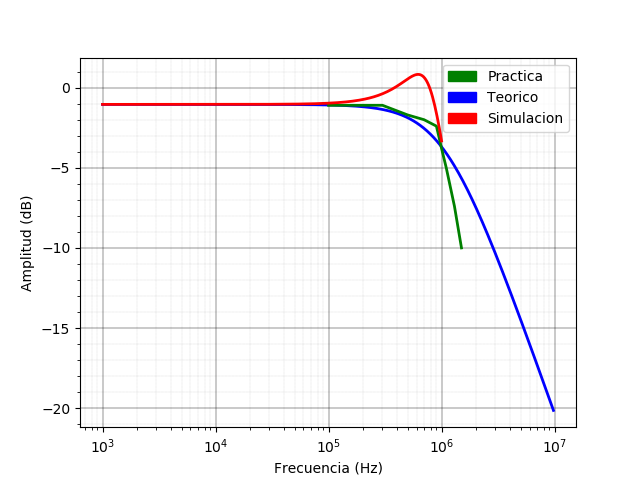
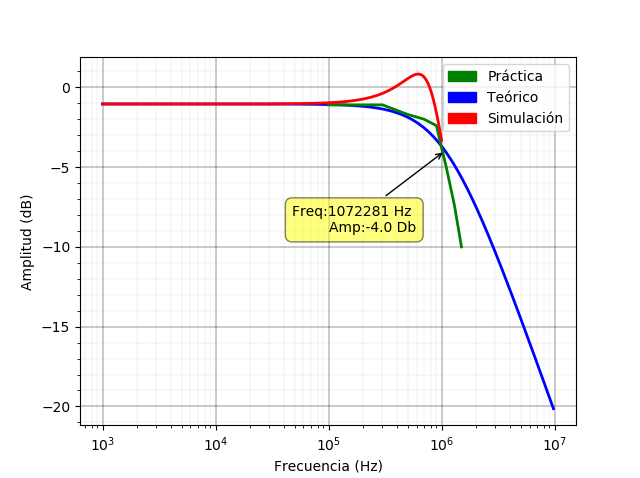
add

diff --git a/TP2/graficos/ejercicio1/bode_no_inv.py b/TP2/graficos/ejercicio1/bode_no_inv.py
@@ -5,15 +5,21 @@ from math import *
 import matplotlib.pyplot as plt
 import matplotlib.patches as mpatches
 from read_xls import *
+from mpldatacursor import datacursor
+import matplotlib
 
 a0 = 1e5
 
 fp = 12
 wp = fp * 2 * pi
-fig, ax1 = plt.subplots()
+
 k = 1e3
 
+
+
 def dibujar_bode(r1,r2,r3,r4,log_range, excel_filename, spice_filename ,output_filename):
+
+
     (s,e) = log_range
     f_all = 10.0 ** np.arange(s, e, 0.01)
     w_all = [i * (2*pi) for i in f_all]
@@ -41,7 +47,7 @@ def dibujar_bode(r1,r2,r3,r4,log_range, excel_filename, spice_filename ,output_f
 
     data_excel = read_excel_data(excel_filename)
 
-
+    fig, ax1 = plt.subplots()
     ### Amplitud
 
     ax1.semilogx(f, mag, "blue", linewidth=2)
@@ -57,9 +63,9 @@ def dibujar_bode(r1,r2,r3,r4,log_range, excel_filename, spice_filename ,output_f
     plt.xlabel("Frecuencia (Hz)")
     plt.ylabel("Amplitud (dB)")
 
-    blue_patch = mpatches.Patch(color='blue', label='Teorico')
-    green_patch = mpatches.Patch(color='green', label='Practica')
-    red_patch = mpatches.Patch(color='red',label='Simulacion')
+    blue_patch = mpatches.Patch(color='blue', label='Teórico')
+    green_patch = mpatches.Patch(color='green', label='Práctica')
+    red_patch = mpatches.Patch(color='red',label='Simulación')
 
     plt.legend(handles=[ green_patch, blue_patch , red_patch])
     ax1.set_axisbelow(True)
@@ -67,11 +73,22 @@ def dibujar_bode(r1,r2,r3,r4,log_range, excel_filename, spice_filename ,output_f
     ax1.grid(which='major', linestyle='-', linewidth=0.3, color='black')
     ax1.grid(which='minor', linestyle=':', linewidth=0.1, color='black')
 
-    plt.savefig("output/amp/"+output_filename)
+    datacursor(formatter="Freq: {x:.3e}  Hz \nAmp:{y:.1f} Db".format, draggable=True)
+
+    plt.show()
+    input("Press Enter ")
+
+    fig.savefig("output/amp/"+output_filename)
+
     plt.cla()
+    plt.close()
+
+    #plt.savefig("output/amp/"+output_filename)
 
 
     ### fase
+    fig, ax1 = plt.subplots()
+
     ax1.semilogx(f, phase, "blue", linewidth=2)
     ax1.semilogx(data_excel["freq"],data_excel["phase"],"green",linewidth=2)
     ax1.semilogx(data_spice["f"],data_spice["pha"],"red",linewidth=2)
@@ -88,16 +105,19 @@ def dibujar_bode(r1,r2,r3,r4,log_range, excel_filename, spice_filename ,output_f
     ax1.minorticks_on()
     ax1.grid(which='major', linestyle='-', linewidth=0.3, color='black')
     ax1.grid(which='minor', linestyle=':', linewidth=0.1, color='black')
+    datacursor(formatter="Freq:{x:.0f} Hz \nAmp:{y:.1f} Grados".format, draggable=True)
 
-    plt.savefig("output/pha/"+output_filename)
+    plt.show()
+    input("Press Enter ")
+    fig.savefig("output/pha/"+output_filename)
     plt.cla()
-
-
+    plt.close()
 
     ### impedancia de entrada
 
-    #### Teorico #####
 
+    #### Teorico #####
+    fig, ax1 = plt.subplots()
 
     s1 = signal.lti([r3+r4], [1])
     w, H = signal.freqresp(s1, w_all)
@@ -130,9 +150,15 @@ def dibujar_bode(r1,r2,r3,r4,log_range, excel_filename, spice_filename ,output_f
 
     ax1.grid(which='major', linestyle='-', linewidth=0.3, color='black')
     ax1.grid(which='minor', linestyle=':', linewidth=0.1, color='black')
+    datacursor(formatter="Freq:{x:.0f} Hz \nAmp:{y:.1f} Db".format, draggable=True)
 
-    plt.savefig("output/imp/" + output_filename)
+    plt.show()
+    input("Press Enter ")
+
+    fig.savefig("output/imp/" + output_filename)
     plt.cla()
+    plt.close()
+
 
 
 dibujar_bode(r1=1.2*k,r2=12*k,r3=1.2*k,r4=4.99*k, # caso 10
